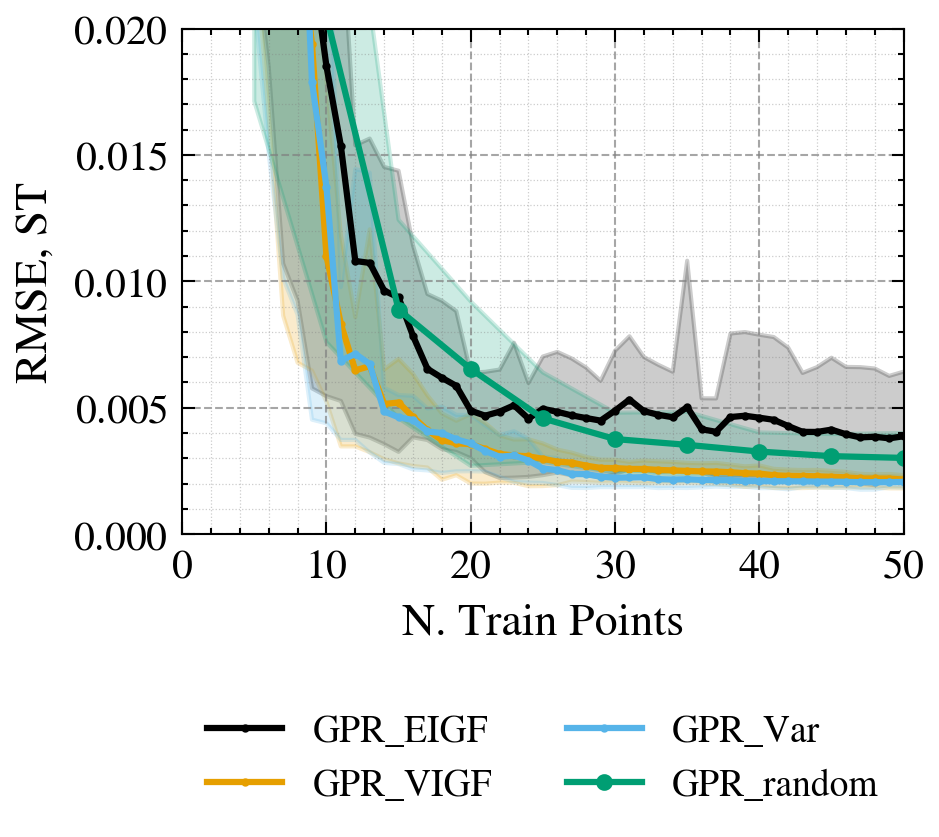
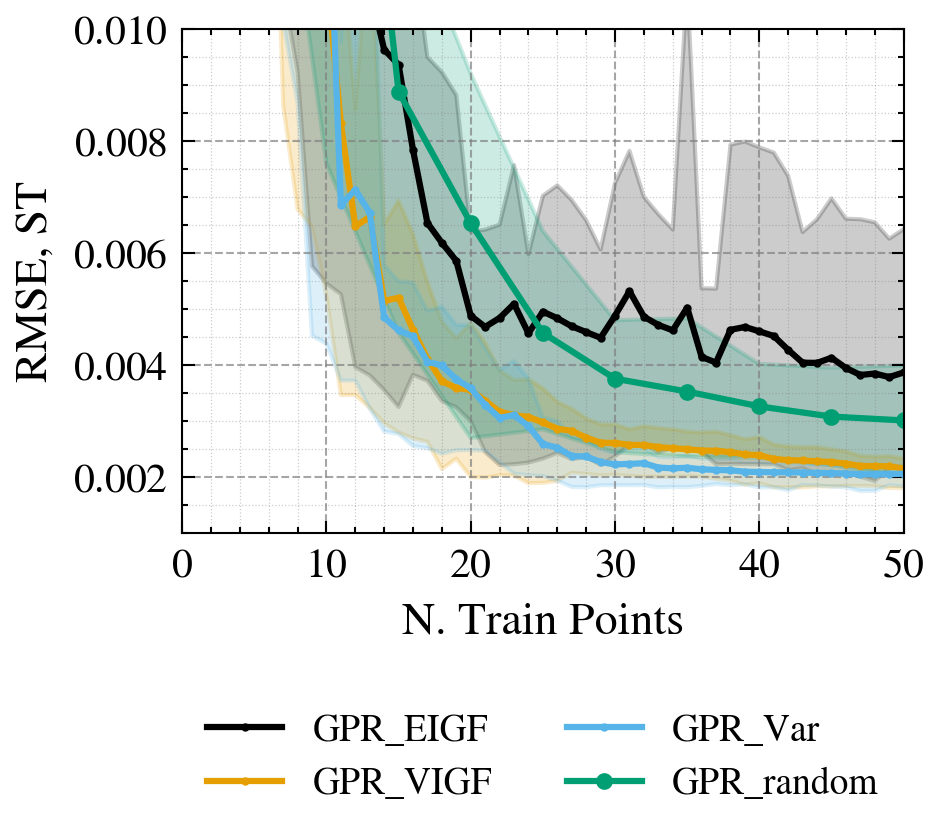
more ST stuff

diff --git a/plotting_scripts/ST_print_best_model_hypers.py b/plotting_scripts/ST_print_best_model_hypers.py
@@ -1,0 +1,51 @@
+"""Print GPy kernel hyperparameters for the best shine-through (ST)
+active-learning surrogate (selected by ST_active_learning_comparison.py,
+persisted in plotting_scripts/best_model_dir_ST/).
+
+For both the output model (gpy_model.pkl) and the noise model
+(gpy_noise_model.pkl), prints the ARD lengthscale for each input dimension
+and the RBF kernel's variance (amplitude) hyperparameter.
+"""
+import os
+import pickle
+
+import numpy as np
+
+script_dir = os.path.dirname(os.path.abspath(__file__))
+best_model_dir = os.path.join(script_dir, "best_model_dir_ST")
+out_dir = os.path.join(script_dir, "plots", "ST_best_model")
+out_path = os.path.join(out_dir, "kernel_hyperparameters.txt")
+
+parameters = ["enbi", "nbar", "np", "hfactor"]
+
+
+def format_kernel_hypers(model_path, label):
+    with open(model_path, "rb") as f:
+        model = pickle.load(f)
+
+    kern = model.kern
+    lengthscales = np.atleast_1d(kern.lengthscale.values)
+    variance = float(np.atleast_1d(kern.variance.values)[0])
+
+    lines = [f"{label} ({os.path.basename(model_path)})"]
+    names = parameters if len(parameters) == len(lengthscales) else range(len(lengthscales))
+    for name, ls in zip(names, lengthscales):
+        lines.append(f"  lengthscale[{name}] = {ls:.6g}")
+    lines.append(f"  amplitude (kernel variance) = {variance:.6g}")
+    return lines
+
+
+if __name__ == "__main__":
+    os.makedirs(out_dir, exist_ok=True)
+
+    lines = []
+    lines += format_kernel_hypers(os.path.join(best_model_dir, "gpy_model.pkl"), "Output model")
+    lines.append("")
+    lines += format_kernel_hypers(os.path.join(best_model_dir, "gpy_noise_model.pkl"), "Noise model")
+
+    text = "\n".join(lines)
+    print(text)
+
+    with open(out_path, "w") as f:
+        f.write(text + "\n")
+    print(f"\nSaved to {out_path}")

diff --git a/plotting_scripts/ST_active_learning_comparison.py b/plotting_scripts/ST_active_learning_comparison.py
@@ -214,7 +214,7 @@ def plot_sampling_strategy_comparison(
         ax = fig.add_subplot(gs[0])
         if base_metric == 'rmse':
             ax.set_xlim(0, 50)
-            ax.set_ylim(0, 0.02)
+            ax.set_ylim(0.001, 0.01)
         ax_legend = fig.add_subplot(gs[1])
         ax_legend.axis("off")
 
